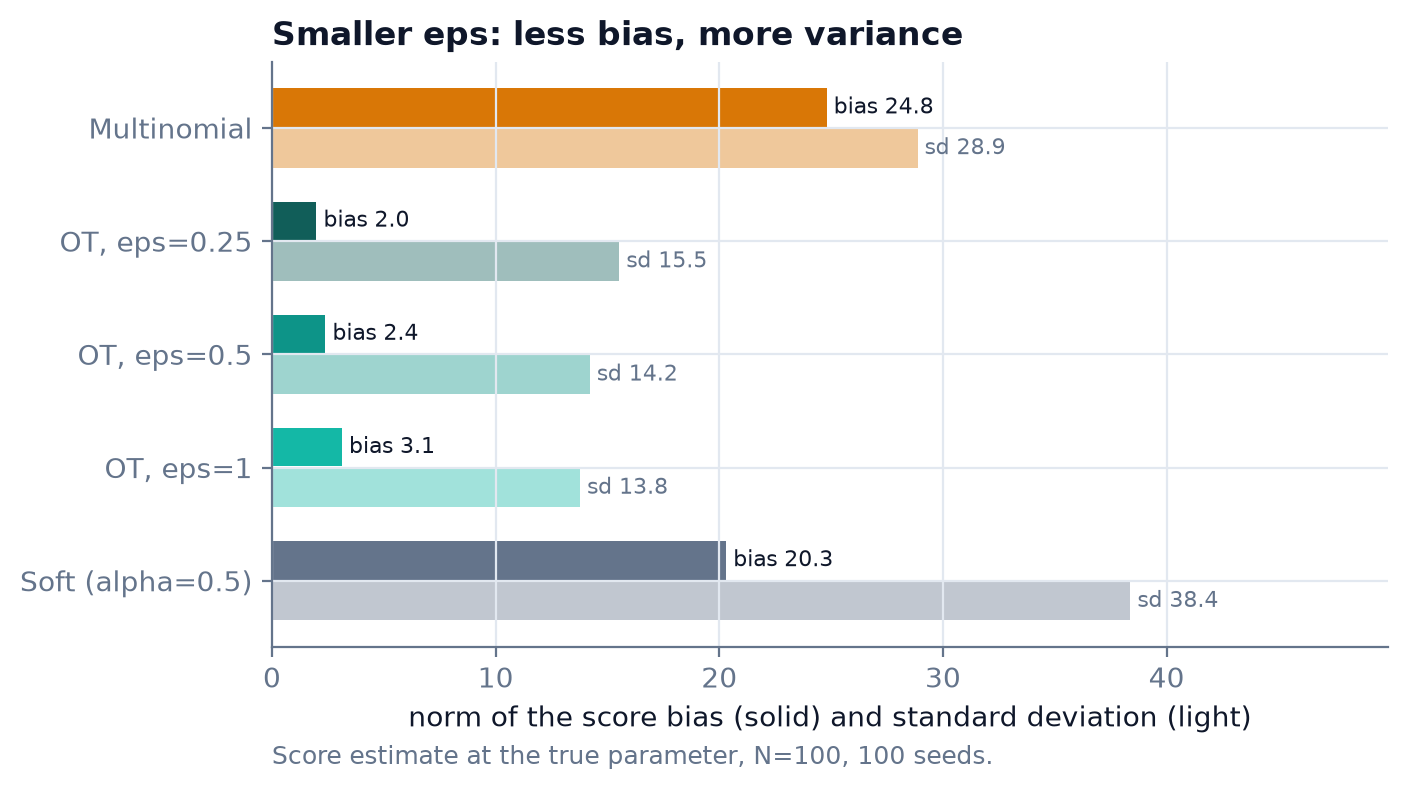
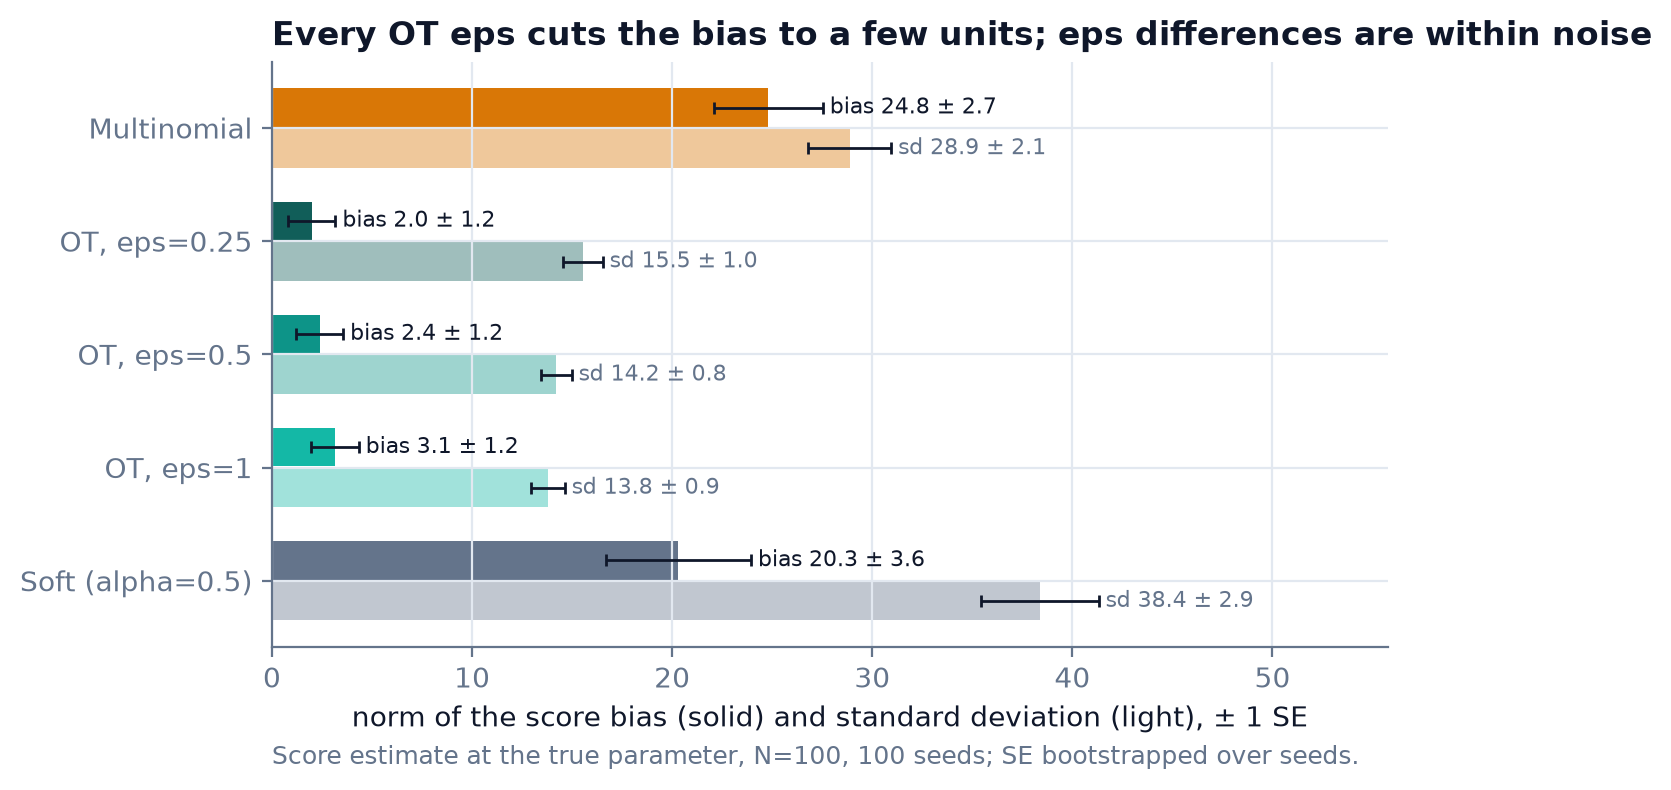
figures: error bars on the eps chart and titles the data support
The eps chart shows +/- 1 SE and no longer claims a bias/variance
ordering that 100 seeds do not resolve; the nonlinear-model title calls
eps = 1 borderline worse; the hero quotes the exact worst distance (0.053).

diff --git a/src/otpf/figures.py b/src/otpf/figures.py
@@ -12,6 +12,7 @@ import numpy as np
 import pandas as pd
 
 from otpf.summary import (
+    eps_pairs,
     gradient_summary,
     kitagawa_summary,
     learning_summary,
@@ -140,7 +141,7 @@ def hero(results_dir: Path, path: Path) -> None:
         "ot": "OT, eps=0.5",
         "kalman": "Exact score",
     }
-    ax2.text(0.97, 0.97, "distance of the learned theta\nto the exact MLE (mean of runs)",
+    ax2.text(0.97, 0.97, "distance of the learned theta to the\nexact MLE (last 20 iterates, mean of runs)",
              transform=ax2.transAxes, fontsize=9, color=SLATE, va="top", ha="right")  # fmt: skip
     for i, method in enumerate(["multinomial", "soft", "ot", "kalman"]):
         if method in finals.index:
@@ -154,7 +155,7 @@ def hero(results_dir: Path, path: Path) -> None:
     ax2.set_ylim(0, 1)
     ax2.set_xlabel(r"$\theta_1$ (transition coefficient, dim 1)")
     ax2.set_ylabel(r"$\theta_2$ (transition coefficient, dim 2)")
-    ax2.set_title(rf"Yet every run lands within {np.ceil(worst * 100) / 100:.2f} of the MLE")
+    ax2.set_title(f"Yet every run lands within {worst:.3f} of the MLE")
     _save(fig, path)
 
 
@@ -195,21 +196,28 @@ def eps_tradeoff(results_dir: Path, path: Path) -> None:
     s = summary[summary["n_particles"] == n].reset_index(drop=True)
     fig, ax = plt.subplots(figsize=(7.2, 3.8))
     y = np.arange(len(s))
+    bar = {"height": 0.34, "error_kw": {"ecolor": INK, "elinewidth": 1, "capsize": 2}}
     for i, row in s.iterrows():
         c = color(row["method"], row["eps"])
-        ax.barh(i - 0.18, row["score_bias_norm"], height=0.34, color=c)
-        ax.barh(i + 0.18, row["score_sd"], height=0.34, color=c, alpha=0.4)
-        ax.text(row["score_bias_norm"], i - 0.18, f" bias {row['score_bias_norm']:.1f}",
-                va="center", fontsize=8, color=INK)  # fmt: skip
-        ax.text(row["score_sd"], i + 0.18, f" sd {row['score_sd']:.1f}", va="center",
-                fontsize=8, color=SLATE)  # fmt: skip
+        bias, bias_se = row["score_bias_norm"], row["score_bias_norm_se"]
+        sd, sd_se = row["score_sd"], row["score_sd_se"]
+        ax.barh(i - 0.18, bias, xerr=bias_se, color=c, **bar)
+        ax.barh(i + 0.18, sd, xerr=sd_se, color=c, alpha=0.4, **bar)
+        ax.text(bias + bias_se, i - 0.18, f" bias {bias:.1f} ± {bias_se:.1f}", va="center",
+                fontsize=8, color=INK)  # fmt: skip
+        ax.text(sd + sd_se, i + 0.18, f" sd {sd:.1f} ± {sd_se:.1f}", va="center", fontsize=8,
+                color=SLATE)  # fmt: skip
     ax.set_yticks(y, s["label"])
     ax.invert_yaxis()
-    ax.set_xlabel("norm of the score bias (solid) and standard deviation (light)")
-    ax.set_title("Smaller eps: less bias, more variance")
-    ax.text(0.0, -0.2, f"Score estimate at the true parameter, N={n}, {int(s['seeds'].min())} seeds.",
-            transform=ax.transAxes, fontsize=9, color=SLATE)  # fmt: skip
-    ax.set_xlim(0, max(s["score_bias_norm"].max(), s["score_sd"].max()) * 1.3)
+    ax.set_xlabel("norm of the score bias (solid) and standard deviation (light), ± 1 SE")
+    ax.set_title("Every OT eps cuts the bias to a few units; eps differences are within noise")
+    ax.text(0.0, -0.2, f"Score estimate at the true parameter, N={n}, {int(s['seeds'].min())} seeds;"
+            " SE bootstrapped over seeds.", transform=ax.transAxes, fontsize=9, color=SLATE)  # fmt: skip
+    top = (
+        s[["score_bias_norm", "score_sd"]].to_numpy()
+        + s[["score_bias_norm_se", "score_sd_se"]].to_numpy()
+    ).max()
+    ax.set_xlim(0, top * 1.35)
     _save(fig, path)
 
 
@@ -234,7 +242,7 @@ def kitagawa(results_dir: Path, path: Path) -> None:
     ax.set_xlim(None, s["diff_vs_multinomial"].max() + s["diff_ci95"].max() + 0.45)
     n_seq = int(s["sequences"].min())
     ax.set_xlabel(f"change in tracking RMSE vs multinomial (paired, 95% CI, {n_seq} sequences)")
-    ax.set_title("Nonlinear model: no significant gain from OT; eps=1 hurts")
+    ax.set_title("Nonlinear model: no significant gain from OT; eps=1 borderline worse")
     _save(fig, path)
 
 
@@ -247,3 +255,4 @@ def make_figures(results_dir: Path, figures_dir: Path) -> None:
     gradient_summary(results_dir).to_csv(results_dir / "summary_gradients.csv", index=False)
     learning_summary(results_dir).to_csv(results_dir / "summary_learning.csv", index=False)
     kitagawa_summary(results_dir).to_csv(results_dir / "summary_kitagawa.csv", index=False)
+    eps_pairs(results_dir).to_csv(results_dir / "summary_eps_pairs.csv", index=False)
